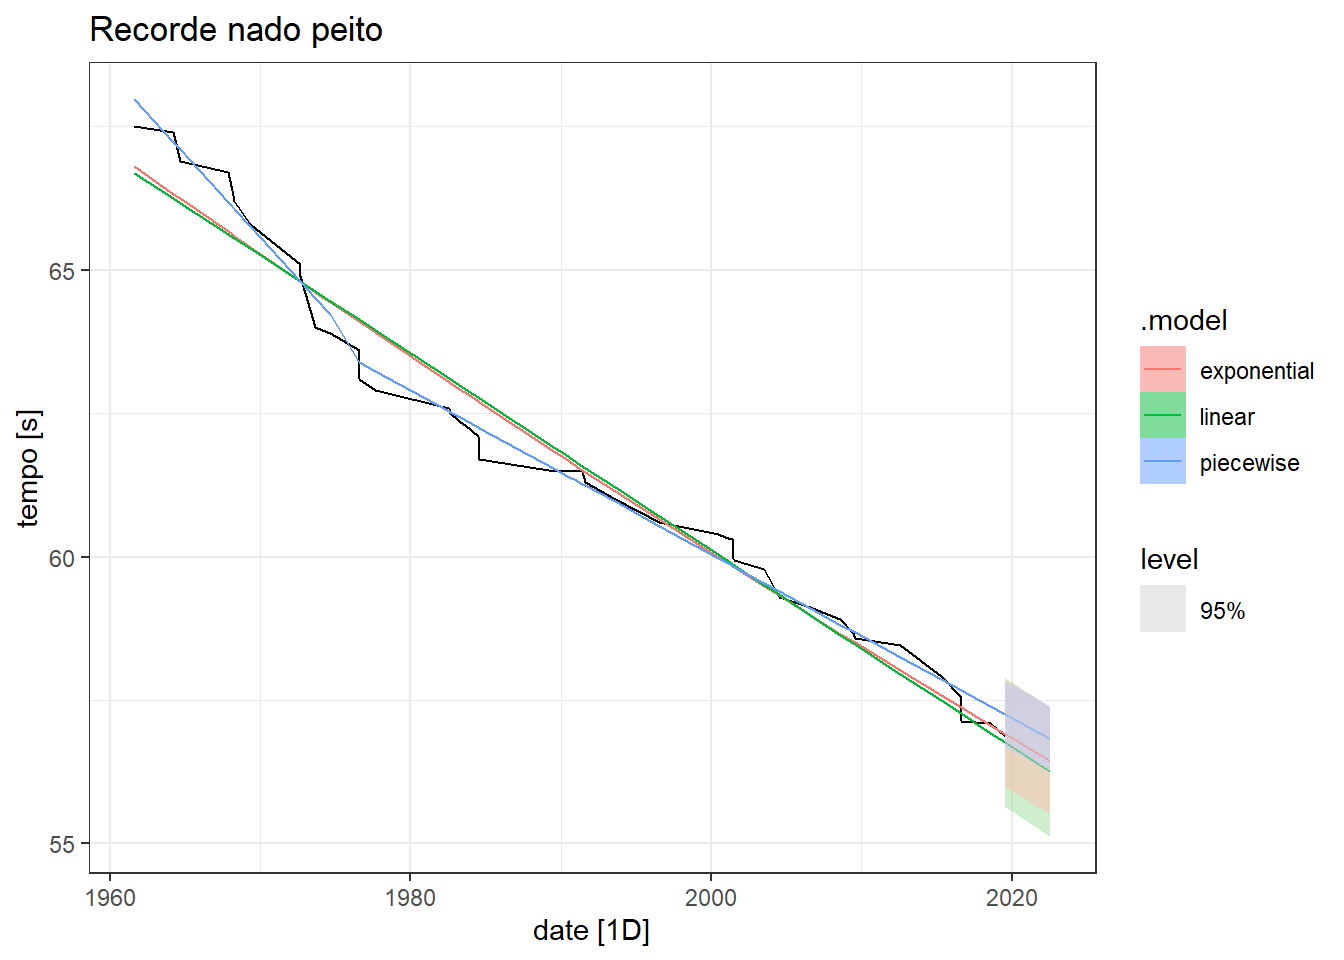
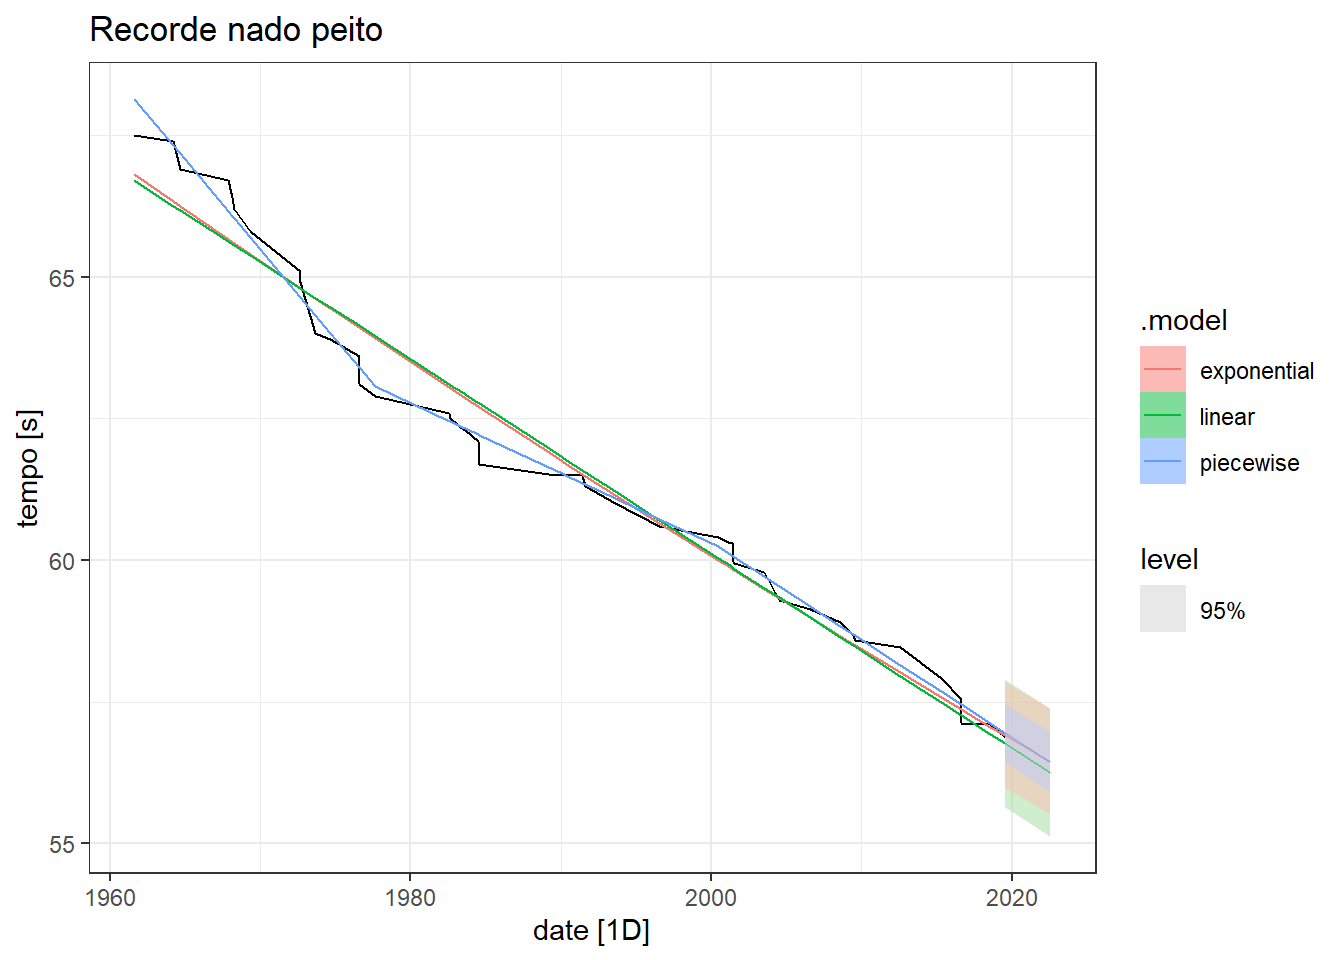
Atualização 11102024

diff --git a/ST4.html b/ST4.html
@@ -710,7 +710,7 @@ AIC = T\text{ log}\bigg(\frac{SS_E}{T}\bigg)+2(k+2)
 </section>
 <section id="regressão-não-linear" class="level2" data-number="4.8">
 <h2 data-number="4.8" class="anchored" data-anchor-id="regressão-não-linear"><span class="header-section-number">4.8</span> Regressão não linear</h2>
-<p>Trasnformações podem ser interessantes para tratar a não lineariedade na série a ser predita e nas preditoras. Há muitos casos que a tendência observada em uma série não é linear. Nestes casos podem ser consideradas transformações nos preditores e/ou na resposta para obter uma melhor aproximação.</p>
+<p>Trasnformações podem ser interessantes para tratar a não lineariedade na série a ser predita e nas preditoras. Há muitos casos que a tendência observada em uma série não é linear. Nestes casos podem ser considerada transformação polinomial na tendência.</p>
 <p>Uma opção interessante em alguns casos é utilizar transformação logarítimica em ambas séries independentes e dependente ou em apenas uma destas. Para o caso simples, com transformação em ambas as séries, tem-se o seguinte modelo.</p>
 <p><span class="math display">\[
 \text{log} (y_t) = \beta_0+\beta_1\text{log} (x_t)
@@ -740,7 +740,7 @@ AIC = T\text{ log}\bigg(\frac{SS_E}{T}\bigg)+2(k+2)
 </div>
 </div>
 </div>
-<p>A <a href="#fig-peito_mod">Figura&nbsp;<span>4.19</span></a> expõe a mesma série com três modelos, um com transformação logarítimica na resposta, resultando em um modelo exponencial, um linear e outro linear por partes (<em>piecewise</em>). Foram consideradas duas partições, em 1980 e 2000. Pode-se observar que o terceiro caso parece interessante para ajustar-se melhor em cada momento considerado da série.</p>
+<p>A <a href="#fig-peito_mod">Figura&nbsp;<span>4.19</span></a> expõe a mesma série com três modelos, um com transformação logarítimica na resposta, resultando em um modelo exponencial, um linear e outro linear por partes (<em>piecewise</em>). Foram consideradas duas partições, em 1977 e 2000. Pode-se observar que o terceiro caso parece interessante para ajustar-se melhor em cada momento considerado da série.</p>
 <div class="cell">
 <div class="cell-output-display">
 <div id="fig-peito_mod" class="quarto-figure quarto-figure-center anchored">
